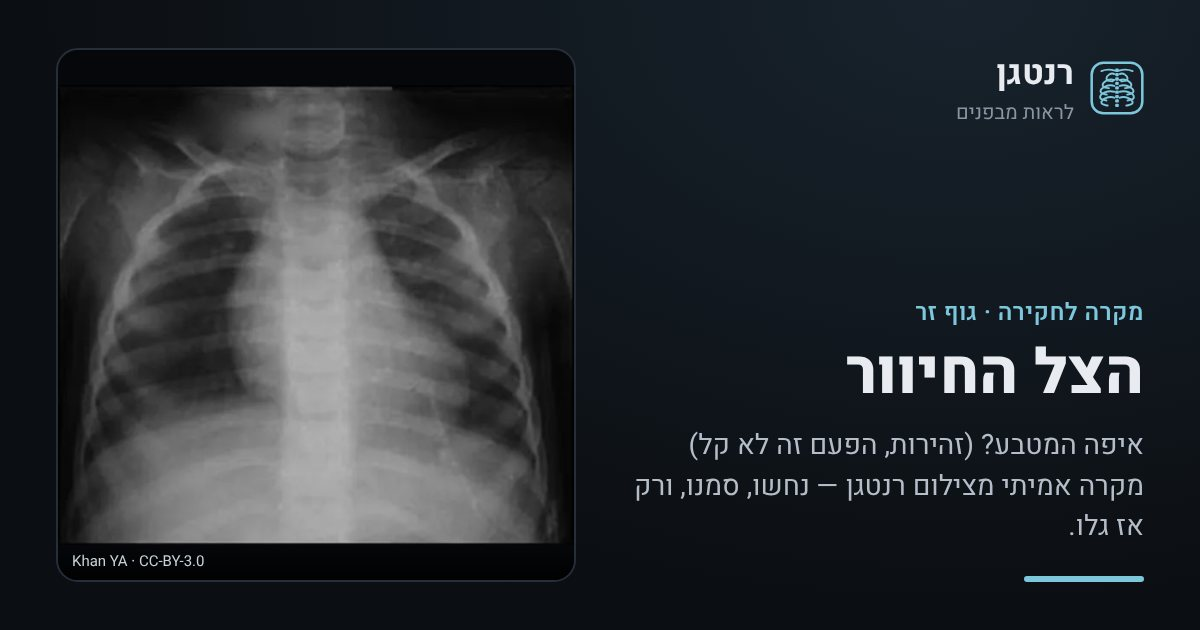
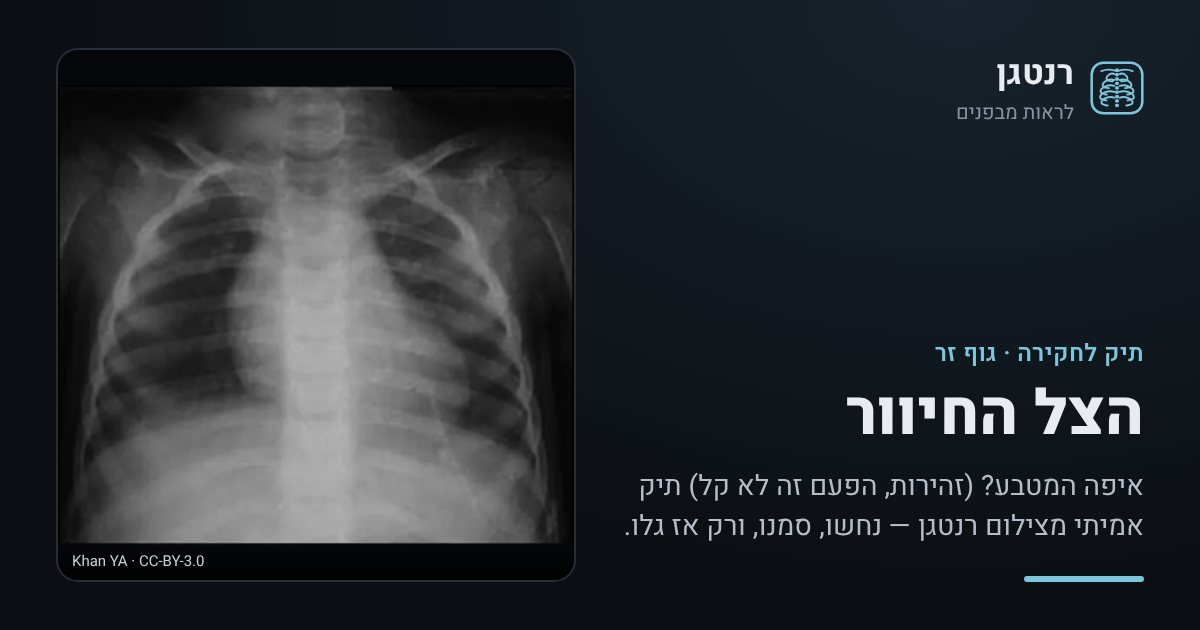
Sky 2024 images, and UI names: התיקים, המעבדה, רנטגן בחלל
- Add 7 Chandra X-ray images from 2024 (exclusions in content/sources.md)
- 'מקרים' becomes 'תיקים' in all user-facing text; 'מעבדה' becomes 'המעבדה'
- 'השמיים ברנטגן' becomes 'רנטגן בחלל' (nav, page, home, timeline, share)
- Home buttons: 'התחילו לחקור!', 'נסו את מכונת השיקוף'
- Regenerate share images

Claude-Session: https://claude.ai/code/session_018BchdeCPipBv6pbdCzEZe6

diff --git a/index.html b/index.html
@@ -3,7 +3,7 @@
   <head>
     <!-- @head -->
     <title>{{SITE_NAME}} · {{SITE_TAGLINE}}</title>
-    <meta name="description" content="אתר לימודי בעברית על צילומי רנטגן: מקרים אמיתיים לחקור, מעבדה לניסויים, הפיזיקה שמאחורי הצילום וההיסטוריה שלו — לתלמידים ולמבוגרים סקרנים." />
+    <meta name="description" content="אתר לימודי בעברית על צילומי רנטגן: תיקים אמיתיים לחקור, מעבדה לניסויים, הפיזיקה שמאחורי הצילום וההיסטוריה שלו — לתלמידים ולמבוגרים סקרנים." />
   </head>
   <body>
     <!-- @header -->
@@ -14,12 +14,12 @@
             <span class="eyebrow">אתר לימודי על צילומי רנטגן</span>
             <h1>מה רואים כשמסתכלים מבפנים?</h1>
             <p class="lead">
-              כל מקרה מתחיל בסיפור קצר ובצילום אמיתי. אתם מחפשים את הממצא, מסמנים אותו על הצילום —
+              כל תיק מתחיל בסיפור קצר ובצילום אמיתי. אתם מחפשים את הממצא, מסמנים אותו על הצילום —
               ורק אז מגלים מה קרה, ולמה זה נראה בדיוק ככה.
             </p>
             <div class="btn-row">
-              <a class="btn btn-primary" href="./cases.html">להתחיל לחקור</a>
-              <a class="btn" href="./lab-scanner.html">לנסות את מכונת השיקוף</a>
+              <a class="btn btn-primary" href="./cases.html">התחילו לחקור!</a>
+              <a class="btn" href="./lab-scanner.html">נסו את מכונת השיקוף</a>
             </div>
           </div>
           <figure class="hero-figure">
@@ -28,7 +28,7 @@
               alt="הדפסה ישנה בגוון חום של צילום רנטגן של מצפן: לוח שנתות עגול ובמרכזו מחט מחודדת."
               width="1100" height="1680"
             />
-            <figcaption>וילהלם רנטגן, 1895: מצפן סגור בקופסת מתכת. <a href="./case-compass-01.html">למקרה</a></figcaption>
+            <figcaption>וילהלם רנטגן, 1895: מצפן סגור בקופסת מתכת. <a href="./case-compass-01.html">לתיק</a></figcaption>
           </figure>
         </section>
       </div>
@@ -60,8 +60,8 @@
             <article class="card">
               <div class="card-body">
                 <svg class="card-icon" viewBox="0 0 36 36" aria-hidden="true"><rect x="5" y="4" width="26" height="28" rx="3" fill="none" stroke="currentColor" stroke-width="1.5"/><path d="M13.5 12.5l9 11" stroke="currentColor" stroke-width="2.5" stroke-linecap="round"/><circle cx="12" cy="13" r="2.2" fill="currentColor"/><circle cx="14.5" cy="10.5" r="2.2" fill="currentColor"/><circle cx="21.5" cy="25.5" r="2.2" fill="currentColor"/><circle cx="24" cy="23" r="2.2" fill="currentColor"/></svg>
-                <h3><a class="card-link" href="./cases.html">מקרים</a></h3>
-                <p>סיפורי מקרה לפי נושא ורמת קושי: גוף זר, שברים, גדילה, שיניים ועוד.</p>
+                <h3><a class="card-link" href="./cases.html">התיקים</a></h3>
+                <p>תיקים לחקירה לפי נושא ורמת קושי: גוף זר, שברים, גדילה, שיניים ועוד.</p>
               </div>
             </article>
             <article class="card">
@@ -74,7 +74,7 @@
             <article class="card">
               <div class="card-body">
                 <svg class="card-icon" viewBox="0 0 36 36" aria-hidden="true"><path d="M14 4h8M15 4v10L6 29a2 2 0 0 0 1.7 3h20.6a2 2 0 0 0 1.7-3L21 14V4" fill="none" stroke="currentColor" stroke-width="1.5" stroke-linejoin="round" stroke-linecap="round"/><path d="M10.5 23h15l3 5.5H7.5z" fill="currentColor" opacity=".5"/></svg>
-                <h3><a class="card-link" href="./lab.html">מעבדה</a></h3>
+                <h3><a class="card-link" href="./lab.html">המעבדה</a></h3>
                 <p>סימולטורים לניסוי עצמאי: בוחרים חומר ועובי, ורואים מה קורה לקרינה.</p>
               </div>
             </article>
@@ -88,7 +88,7 @@
             <article class="card">
               <div class="card-body">
                 <svg class="card-icon" viewBox="0 0 36 36" aria-hidden="true"><path d="M15 6l2.2 6.8L24 15l-6.8 2.2L15 24l-2.2-6.8L6 15l6.8-2.2z" fill="currentColor"/><path d="M27 21l1 3 3 1-3 1-1 3-1-3-3-1 3-1z" fill="currentColor" opacity=".6"/><circle cx="28" cy="8" r="1.5" fill="currentColor" opacity=".6"/></svg>
-                <h3><a class="card-link" href="./sky.html">השמיים ברנטגן</a></h3>
+                <h3><a class="card-link" href="./sky.html">רנטגן בחלל</a></h3>
                 <p>תמונות חדשות מטלסקופ רנטגן בחלל, וכמה קרני X השמש פולטת היום.</p>
               </div>
             </article>
@@ -98,7 +98,7 @@
 
       <section class="section" aria-labelledby="sky-home-title">
         <div class="container">
-          <h2 id="sky-home-title">חדש מהשמיים</h2>
+          <h2 id="sky-home-title">חדש מהחלל</h2>
           <div id="sky-home" class="sky-home"></div>
         </div>
       </section>

diff --git a/src/pages/case.js b/src/pages/case.js
@@ -20,10 +20,10 @@ const id = document.documentElement.dataset.caseId || new URLSearchParams(locati
 const c = id && getCase(id);
 
 if (!c) {
-  document.title = `המקרה לא נמצא · ${SITE.name}`;
+  document.title = `התיק לא נמצא · ${SITE.name}`;
   root.replaceChildren(h('div', { class: 'page-head' },
-    h('h1', { text: 'המקרה לא נמצא' }),
-    h('p', { class: 'lead' }, 'ייתכן שהקישור שגוי או שהמקרה הוסר. ', h('a', { href: './cases.html', text: 'לרשימת המקרים' })),
+    h('h1', { text: 'התיק לא נמצא' }),
+    h('p', { class: 'lead' }, 'ייתכן שהקישור שגוי או שהתיק הוסר. ', h('a', { href: './cases.html', text: 'לרשימת התיקים' })),
   ));
 } else {
   renderCase(c);
@@ -43,7 +43,7 @@ function renderCase(c) {
   // ---------- 1. סיפור ----------
   const head = h('div', { class: 'case-head' },
     h('nav', { class: 'breadcrumb', 'aria-label': 'נתיב' },
-      h('a', { href: './cases.html', text: 'מקרים' }), ' / ', categories[c.category]),
+      h('a', { href: './cases.html', text: 'התיקים' }), ' / ', categories[c.category]),
     h('div', { class: 'case-tags' },
       h('span', { class: 'tag', text: categories[c.category] }),
       difficultyBadge(c.difficulty),
@@ -152,7 +152,7 @@ function renderCase(c) {
     h('p', { text: c.reveal }),
     normal && createCompare({
       left: { src: imageUrl(normal.file), alt: normal.alt, label: 'צילום תקין' },
-      right: { src: imageUrl(main.file), alt: main.alt, label: 'הצילום במקרה' },
+      right: { src: imageUrl(main.file), alt: main.alt, label: 'הצילום בתיק' },
       caption: 'גררו את הקו כדי להשוות לצילום תקין.',
     }).el,
     ...extraFigures('reveal'),
@@ -182,7 +182,7 @@ function renderCase(c) {
 
   const creditStep = step(6, 'קרדיט', 'מקור התמונות',
     creditsList(c.images.map((im) => creditItem(im, {
-      context: { main: 'הצילום במקרה', normal: 'צילום תקין להשוואה', 'second-view': 'מנח נוסף' }[im.role],
+      context: { main: 'הצילום בתיק', normal: 'צילום תקין להשוואה', 'second-view': 'מנח נוסף' }[im.role],
     }))),
   );
 
@@ -226,12 +226,12 @@ function casePager(c) {
   const prev = cases[i - 1], next = cases[i + 1];
   const link = (t, dir) => (t
     ? h('a', { class: `pager-link pager-${dir}`, href: caseUrl(t.id) },
-      h('span', { class: 'pager-dir', text: dir === 'prev' ? 'המקרה הקודם' : 'המקרה הבא' }),
+      h('span', { class: 'pager-dir', text: dir === 'prev' ? 'התיק הקודם' : 'התיק הבא' }),
       h('span', { class: 'pager-title', text: t.title }))
     : h('span'));
-  return h('nav', { class: 'pager case-pager', 'aria-label': 'מעבר בין מקרים' },
+  return h('nav', { class: 'pager case-pager', 'aria-label': 'מעבר בין תיקים' },
     link(prev, 'prev'),
-    h('a', { class: 'pager-all', href: './cases.html' }, 'כל המקרים', h('span', { class: 'pager-count', text: `${i + 1} מתוך ${cases.length}` })),
+    h('a', { class: 'pager-all', href: './cases.html' }, 'כל התיקים', h('span', { class: 'pager-count', text: `${i + 1} מתוך ${cases.length}` })),
     link(next, 'next'),
   );
 }

diff --git a/accessibility.html b/accessibility.html
@@ -89,7 +89,7 @@
                 <h3>מקלדת ומגע</h3>
                 <ul>
                   <li>קישור "דילוג לתוכן" בראש כל דף.</li>
-                  <li>הסימון על הצילום בעמודי המקרים אפשרי גם במקלדת: חיצים מזיזים את הסמן, Enter מסמן.</li>
+                  <li>הסימון על הצילום בעמודי התיקים אפשרי גם במקלדת: חיצים מזיזים את הסמן, Enter מסמן.</li>
                   <li>מחוון ההשוואה וגוף התלת-ממד ב"צורה וצל" זזים בחיצים.</li>
                   <li>בסורק המזוודות אין חובה לגרור: הקשה או Enter על חפץ שולחים אותו למכונה.</li>
                   <li>כל האינטראקציות עובדות במגע, ובטלפון ברוחב צר אין גלילה לצדדים.</li>
@@ -129,9 +129,9 @@
               <div class="prose">
                 <p>נגישות היא תהליך ולא תעודה. אלה הדברים שאנחנו יודעים שאינם מושלמים:</p>
                 <ul>
-                  <li><strong>צילומי רנטגן הם תוכן חזותי מטבעם.</strong> הטקסט החלופי מתאר מה רואים, וההסבר המלא נמצא בטקסט של כל מקרה — אבל פרטים עדינים בצילום לא תמיד אפשר להעביר במילים.</li>
+                  <li><strong>צילומי רנטגן הם תוכן חזותי מטבעם.</strong> הטקסט החלופי מתאר מה רואים, וההסבר המלא נמצא בטקסט של כל תיק — אבל פרטים עדינים בצילום לא תמיד אפשר להעביר במילים.</li>
                   <li><strong>חלק מכלי המעבדה חזותיים</strong> — "צורה וצל" ו"בהירות וניגודיות" מלמדים דרך מה שרואים על המסך. ההסבר שלהם כתוב גם בטקסט שבעמוד.</li>
-                  <li><strong>חלק מהאתר דורש JavaScript:</strong> הסימון על הצילום בעמודי המקרים, הסינון ברשימת המקרים וכלי המעבדה. את הסיפורים, ציר הזמן וההסברים אפשר לקרוא גם בלי.</li>
+                  <li><strong>חלק מהאתר דורש JavaScript:</strong> הסימון על הצילום בעמודי התיקים, הסינון ברשימת התיקים וכלי המעבדה. את הסיפורים, ציר הזמן וההסברים אפשר לקרוא גם בלי.</li>
                   <li><strong>קישורים חיצוניים</strong> — למקורות הצילומים ולקריאה נוספת — מובילים לאתרים שאינם בשליטתנו.</li>
                 </ul>
               </div>

diff --git a/about.html b/about.html
@@ -42,10 +42,10 @@
               <div class="prose">
                 <p>
                   האתר נועד לסקרנים בכל גיל — ובמיוחד לתלמידים שאוהבים להבין איך דברים עובדים.
-                  במקום להסביר מראש, כל מקרה מזמין אתכם לחקור: לקרוא סיפור, להסתכל על צילום, לנחש — ורק אז לגלות.
+                  במקום להסביר מראש, כל תיק מזמין אתכם לחקור: לקרוא סיפור, להסתכל על צילום, לנחש — ורק אז לגלות.
                 </p>
                 <p>
-                  כל המקרים "רכים": מטבעות שנבלעו, שברים שהחלימו, שיניים שגדלות. בלי מחלות קשות ובלי תמונות קשות.
+                  כל התיקים "רכים": מטבעות שנבלעו, שברים שהחלימו, שיניים שגדלות. בלי מחלות קשות ובלי תמונות קשות.
                 </p>
               </div>
             </section>
@@ -71,7 +71,7 @@
               </header>
               <div class="prose">
                 <p>
-                  הצילומים באתר כבר פורסמו בעבר במקורות פתוחים, ואין בהם פרטים מזהים. כל סיפורי המקרה נכתבו מחדש,
+                  הצילומים באתר כבר פורסמו בעבר במקורות פתוחים, ואין בהם פרטים מזהים. כל הסיפורים בתיקים נכתבו מחדש,
                   עם שמות בדויים.
                 </p>
                 <p>
@@ -89,7 +89,7 @@
               <div class="prose">
                 <p>
                   אנחנו משתמשים רק בתמונות עם רישיון פתוח שמאפשר שימוש ושינוי: CC BY, CC0, או נחלת הכלל.
-                  הרישיון של כל תמונה נבדק בעמוד המקור. הרשימה כאן נוצרת אוטומטית מנתוני המקרים.
+                  הרישיון של כל תמונה נבדק בעמוד המקור. הרשימה כאן נוצרת אוטומטית מנתוני התיקים.
                 </p>
               </div>
               <h3 class="lesson-sub">תמונות</h3>

diff --git a/lab-shadows.html b/lab-shadows.html
@@ -2,7 +2,7 @@
 <html lang="he" dir="rtl">
   <head>
     <!-- @head -->
-    <title>צורה וצל · מעבדה · {{SITE_NAME}}</title>
+    <title>צורה וצל · המעבדה · {{SITE_NAME}}</title>
     <meta name="description" content="בוחרים צורה תלת-ממדית, מסובבים אותה מתחת למקור הקרינה, ורואים איך הצל שלה בצילום משתנה." />
   </head>
   <body>
@@ -24,7 +24,7 @@
             <li>שמרו שני צילומים של אותה צורה מכיוונים שונים. מה אפשר להבין משניהם יחד, שאי אפשר להבין מאחד?</li>
           </ol>
           <h2>מה לומדים מזה?</h2>
-          <p>צילום רנטגן הוא צל שטוח. גופים שונים יכולים להטיל בדיוק אותו צל — כדור ומטבע נראים מלפנים כמו עיגול, וחרוט ופירמידה כמו משולש. לכן רופאים מצלמים כמעט תמיד משני כיוונים. <a href="./case-double-coin-01.html">למקרה: מטבע אחד, או שניים?</a></p>
+          <p>צילום רנטגן הוא צל שטוח. גופים שונים יכולים להטיל בדיוק אותו צל — כדור ומטבע נראים מלפנים כמו עיגול, וחרוט ופירמידה כמו משולש. לכן רופאים מצלמים כמעט תמיד משני כיוונים. <a href="./case-double-coin-01.html">לתיק: מטבע אחד, או שניים?</a></p>
         </section>
         <!-- @labpager -->
       </div>

diff --git a/cases.html b/cases.html
@@ -2,21 +2,21 @@
 <html lang="he" dir="rtl">
   <head>
     <!-- @head -->
-    <title>מקרים · {{SITE_NAME}}</title>
-    <meta name="description" content="סיפורי מקרה לחקירה עצמית: קוראים, מסמנים על הצילום, ומגלים מה קרה." />
+    <title>התיקים · {{SITE_NAME}}</title>
+    <meta name="description" content="תיקים לחקירה עצמית: קוראים, מסמנים על הצילום, ומגלים מה קרה." />
   </head>
   <body>
     <!-- @header -->
     <main id="main">
       <div class="container">
         <header class="page-head">
-          <span class="eyebrow">מקרים</span>
-          <h1>בחרו מקרה</h1>
-          <p class="lead">בכל מקרה יש סיפור קצר וצילום. נסו למצוא את הממצא בעצמכם לפני שאתם מגלים את התשובה.</p>
+          <span class="eyebrow">התיקים</span>
+          <h1>בחרו תיק</h1>
+          <p class="lead">בכל תיק יש סיפור קצר וצילום. נסו למצוא את הממצא בעצמכם לפני שאתם מגלים את התשובה.</p>
         </header>
 
         <div id="cases-root">
-          <noscript><p class="empty-state">כדי לראות את המקרים צריך להפעיל JavaScript בדפדפן.</p></noscript>
+          <noscript><p class="empty-state">כדי לראות את התיקים צריך להפעיל JavaScript בדפדפן.</p></noscript>
         </div>
       </div>
     </main>

diff --git a/src/pages/about.js b/src/pages/about.js
@@ -12,14 +12,14 @@ const images = [
   ...cases.flatMap((c) => c.images.map((im) => ({ c, im }))),
   ...media.map((im) => ({ im })),
   ...timeline.events.filter((e) => e.image).map((e) => ({ im: e.image, where: `ציר הזמן: ${e.title}` })),
-  ...sky.items.map((it) => ({ im: it.image, where: `השמיים ברנטגן: ${it.title}` })),
+  ...sky.items.map((it) => ({ im: it.image, where: `רנטגן בחלל: ${it.title}` })),
   { im: { file: `scanner/${scanner.items[0].scan}-colour.webp`, source: scanner.source }, where: `סורק המזוודות (${scanner.items.length} סריקות)` },
 ];
 document.getElementById('credits-images').append(
   images.length
     ? creditsList(images.map(({ c, im, where }) => {
       const li = creditItem(im, { context: where });
-      if (c) li.append(h('div', { class: 'muted' }, 'מופיעה במקרה: ', h('a', { href: caseUrl(c.id), text: c.title })));
+      if (c) li.append(h('div', { class: 'muted' }, 'מופיעה בתיק: ', h('a', { href: caseUrl(c.id), text: c.title })));
       // תמונה ממוזערת, כדי שיהיה ברור לאיזו תמונה הקרדיט שייך
       li.prepend(h('img', { class: 'credit-thumb', src: c ? imageUrl(im.file) : mediaUrl(im.file), alt: '', loading: 'lazy', decoding: 'async' }));
       li.classList.add('has-thumb');

diff --git a/src/pages/cases.js b/src/pages/cases.js
@@ -60,10 +60,10 @@ function render() {
     (state.category === 'all' || c.category === state.category) &&
     (state.difficulty === 'all' || String(c.difficulty) === state.difficulty));
 
-  count.textContent = shown.length === 1 ? 'מקרה אחד' : `${shown.length} מקרים`;
+  count.textContent = shown.length === 1 ? 'תיק אחד' : `${shown.length} תיקים`;
   list.replaceChildren(...(shown.length
     ? shown.map(card)
-    : [h('p', { class: 'empty-state', style: 'grid-column: 1 / -1' }, 'עדיין אין מקרים שמתאימים לסינון הזה. מקרים חדשים יתווספו בקרוב.')]));
+    : [h('p', { class: 'empty-state', style: 'grid-column: 1 / -1' }, 'עדיין אין תיקים שמתאימים לסינון הזה. תיקים חדשים יתווספו בקרוב.')]));
 
   const q = new URLSearchParams();
   if (state.category !== 'all') q.set('category', state.category);

diff --git a/case.html b/case.html
@@ -2,14 +2,14 @@
 <html lang="he" dir="rtl">
   <head>
     <!-- @head -->
-    <title>מקרה · {{SITE_NAME}}</title>
-    <meta name="description" content="סיפור מקרה: מסמנים על צילום הרנטגן איפה לדעתכם הבעיה, ומגלים מה קרה." />
+    <title>תיק · {{SITE_NAME}}</title>
+    <meta name="description" content="תיק לחקירה: מסמנים על צילום הרנטגן איפה לדעתכם הבעיה, ומגלים מה קרה." />
   </head>
   <body>
     <!-- @header -->
     <main id="main">
       <div class="container" id="case-root">
-        <noscript><p class="empty-state">כדי לראות את המקרה צריך להפעיל JavaScript בדפדפן.</p></noscript>
+        <noscript><p class="empty-state">כדי לראות את התיק צריך להפעיל JavaScript בדפדפן.</p></noscript>
       </div>
     </main>
     <!-- @footer -->

diff --git a/sky.html b/sky.html
@@ -2,7 +2,7 @@
 <html lang="he" dir="rtl">
   <head>
     <!-- @head -->
-    <title>השמיים ברנטגן · {{SITE_NAME}}</title>
+    <title>רנטגן בחלל · {{SITE_NAME}}</title>
     <meta name="description" content="תמונות רנטגן של היקום מטלסקופ החלל צ׳נדרה של נאס״א, עם הסבר בעברית, ומדידה יומית של קרני X מהשמש." />
   </head>
   <body>
@@ -10,8 +10,8 @@
     <main id="main">
       <div class="container">
         <header class="page-head">
-          <span class="eyebrow">מהחלל</span>
-          <h1>השמיים ברנטגן</h1>
+          <span class="eyebrow">אסטרונומיה</span>
+          <h1>רנטגן בחלל</h1>
           <p class="lead">לא רק בבית חולים: גם ביקום יש דברים שזוהרים בקרני X. בעמוד הזה יש שני דברים כאלה.</p>
         </header>
 

diff --git a/vite.config.js b/vite.config.js
@@ -71,8 +71,8 @@ function layoutPartials() {
 
         const isTool = LAB.some((t) => t.page === page);
         return html
-          // בעמודי כלי המעבדה: תווית "מעבדה" מעל הכותרת, כמו בשאר העמודים
-          .replace('<header class="page-head">', isTool ? '<header class="page-head">\n          <span class="eyebrow">מעבדה</span>' : '<header class="page-head">')
+          // בעמודי כלי המעבדה: תווית "המעבדה" מעל הכותרת, כמו בשאר העמודים
+          .replace('<header class="page-head">', isTool ? '<header class="page-head">\n          <span class="eyebrow">המעבדה</span>' : '<header class="page-head">')
           .replace('<!-- @labnav -->', labNav(page))
           .replace('<!-- @labpager -->', labPager(page))
           .replace('<!-- @head -->', `${partial('head')}\n    ${og}`)

diff --git a/src/config.js b/src/config.js
@@ -10,11 +10,11 @@ export const SITE = {
 };
 
 export const NAV = [
-  { href: 'cases.html', label: 'מקרים', pages: ['cases', 'case'] },
+  { href: 'cases.html', label: 'התיקים', pages: ['cases', 'case'] },
   { href: 'physics.html', label: 'איך זה עובד', pages: ['physics'] },
-  { href: 'lab.html', label: 'מעבדה', pages: ['lab', 'lab-thickness', 'lab-scanner', 'lab-window', 'lab-shadows', 'lab-dose'] },
+  { href: 'lab.html', label: 'המעבדה', pages: ['lab', 'lab-thickness', 'lab-scanner', 'lab-window', 'lab-shadows', 'lab-dose'] },
   { href: 'history.html', label: 'היסטוריה', pages: ['history'] },
-  { href: 'sky.html', label: 'השמיים', pages: ['sky'] },
+  { href: 'sky.html', label: 'רנטגן בחלל', pages: ['sky'] },
   { href: 'about.html', label: 'אודות', pages: ['about'] },
 ];
 
